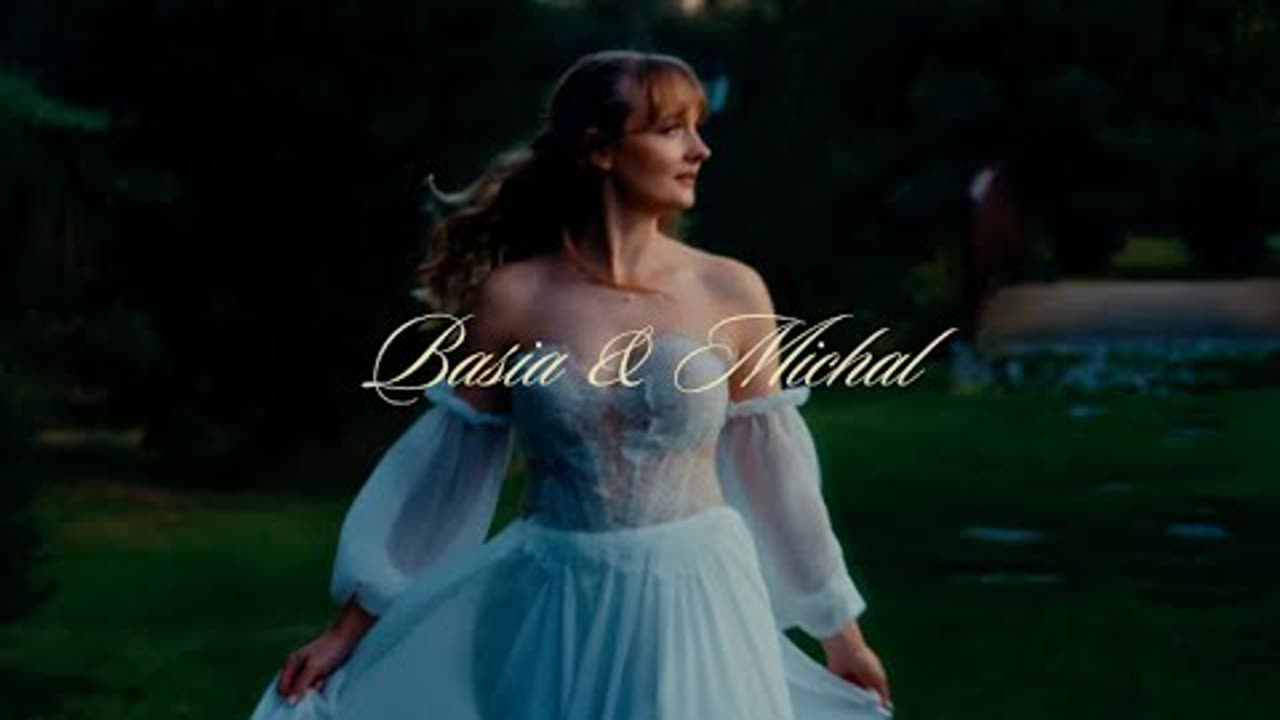
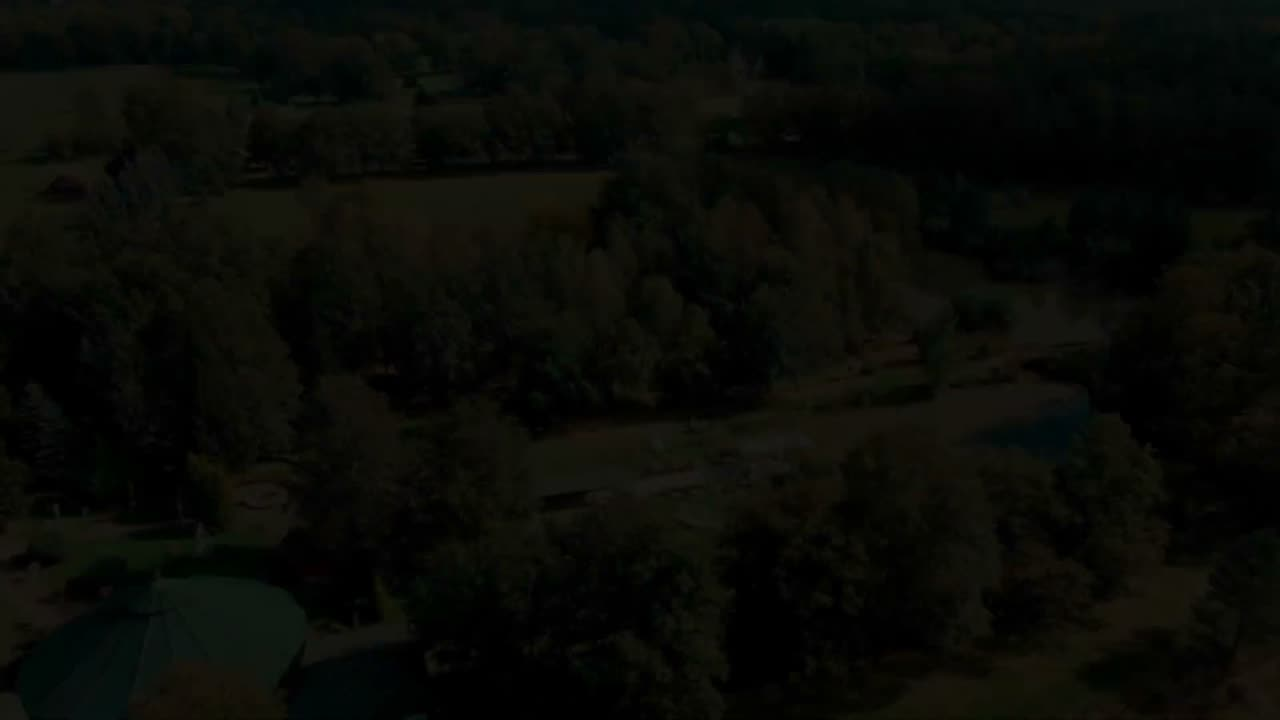
Back-to-top button on every page, and both remaining films moved to Drive
- a back-to-top button fades in once past halfway down the page and hides again
  at the top; it stays hidden on pages too short to need it, respects reduced
  motion, and is labelled in both languages
- Monika & Julien and Basia & Michał now play from Drive like the other four,
  with posters refreshed from those files

diff --git a/docs/assets/css/site.css b/docs/assets/css/site.css
@@ -350,3 +350,28 @@ h1,h2,h3,h4{font-family:var(--display);font-weight:400;margin:0;text-wrap:balanc
 /* ---------- gallery: steadier columns with 200+ frames ---------- */
 .gallery img{background:var(--ink-3)}
 @media (min-width:1400px){.gallery{columns:4}}
+
+/* ---------- back to top ---------- */
+.to-top{
+  position:fixed;z-index:70;
+  right:clamp(16px,2.5vw,34px);
+  bottom:calc(clamp(16px,2.5vw,34px) + env(safe-area-inset-bottom,0px));
+  width:48px;height:48px;border-radius:50%;
+  display:grid;place-items:center;cursor:pointer;
+  border:1px solid var(--line);
+  background:rgba(20,16,15,.72);color:var(--bone);
+  backdrop-filter:blur(8px);-webkit-backdrop-filter:blur(8px);
+  box-shadow:0 10px 30px rgba(8,9,9,.4);
+  opacity:0;visibility:hidden;transform:translateY(10px) scale(.94);
+  transition:opacity .35s ease,transform .45s cubic-bezier(.22,1,.36,1),
+             visibility 0s linear .35s,border-color .3s ease,background .3s ease;
+}
+.to-top.is-shown{
+  opacity:1;visibility:visible;transform:none;
+  transition:opacity .35s ease,transform .45s cubic-bezier(.22,1,.36,1),
+             visibility 0s linear 0s,border-color .3s ease,background .3s ease;
+}
+.to-top:hover,.to-top:focus-visible{background:rgba(196,136,60,.3);border-color:rgba(196,136,60,.6)}
+.to-top svg{width:15px;height:15px;fill:none;stroke:currentColor;stroke-width:1.6;stroke-linecap:round;stroke-linejoin:round}
+@media (max-width:600px){.to-top{width:44px;height:44px}}
+@media print{.to-top{display:none}}

diff --git a/docs/assets/js/site.js b/docs/assets/js/site.js
@@ -258,6 +258,30 @@
     targets.forEach(function (t) { t.classList.add('is-in'); });
   }
 
+  /* ---- back to top: appears once past halfway ---- */
+  var toTop = doc.getElementById('to-top');
+  if (toTop) {
+    var ticking = false;
+    function checkTop() {
+      ticking = false;
+      var doch = doc.documentElement;
+      var scrollable = (doc.body.scrollHeight || 0) - window.innerHeight;
+      // Nothing to go back to on a page that barely scrolls.
+      var past = scrollable > 400 && (window.scrollY || doch.scrollTop) > scrollable * 0.5;
+      toTop.classList.toggle('is-shown', past);
+    }
+    window.addEventListener('scroll', function () {
+      if (!ticking) { ticking = true; window.requestAnimationFrame(checkTop); }
+    }, { passive: true });
+    window.addEventListener('resize', checkTop, { passive: true });
+    toTop.addEventListener('click', function () {
+      window.scrollTo({ top: 0, behavior: reduce ? 'auto' : 'smooth' });
+      var skip = doc.querySelector('.skip');
+      if (skip) skip.focus({ preventScroll: true });
+    });
+    checkTop();
+  }
+
   /* ---- copy buttons ---- */
   doc.querySelectorAll('[data-copy]').forEach(function (btn) {
     btn.addEventListener('click', function () {

diff --git a/docs/assets/js/films.js b/docs/assets/js/films.js
@@ -15,7 +15,7 @@
 --------------------------------------------------------------------------- */
 window.HF_FILMS = [
   {
-    type: "youtube", id: "XPw7D7KUssw", poster: "mj",
+    type: "drive", id: "15ByiG5HNg84QvNmWlqPY7Ey9WxRpa1jT", poster: "mj",
     couple: "Monika & Julien",
     titleEn: "A Celebration of Love",
     titlePl: "A Celebration of Love",
@@ -23,7 +23,7 @@ window.HF_FILMS = [
     textPl: "W sercu Polski, tam gdzie się poznali, ich przygoda zaczęła się w piękny październikowy dzień — i trwa do dziś.",
   },
   {
-    type: "youtube", id: "F5dF0lmNNYc", poster: "bm",
+    type: "drive", id: "1y28-v6MfjWAfq15hzNoQEJQtnljvDG7j", poster: "bm",
     couple: "Basia & Michał",
     titleEn: "Moments of Magic",
     titlePl: "Moments of Magic",

diff --git a/docs/pl/about.html b/docs/pl/about.html
@@ -141,6 +141,9 @@
     </div>
   </div>
 </footer>
+<button class="to-top" type="button" id="to-top" aria-label="Wróć na górę">
+  <svg viewBox="0 0 24 24" aria-hidden="true"><path d="M12 19V5M5 12l7-7 7 7"/></svg>
+</button>
 <script src="../assets/js/films.js"></script>
 <script src="../assets/js/site.js"></script>
 <script>document.getElementById('yr').textContent=new Date().getFullYear();</script>

diff --git a/docs/pl/album-agata-igor.html b/docs/pl/album-agata-igor.html
@@ -150,6 +150,9 @@
     </div>
   </div>
 </footer>
+<button class="to-top" type="button" id="to-top" aria-label="Wróć na górę">
+  <svg viewBox="0 0 24 24" aria-hidden="true"><path d="M12 19V5M5 12l7-7 7 7"/></svg>
+</button>
 <script src="../assets/js/films.js"></script>
 <script src="../assets/js/site.js"></script>
 <script>document.getElementById('yr').textContent=new Date().getFullYear();</script>

diff --git a/docs/pl/album-dominika-artur.html b/docs/pl/album-dominika-artur.html
@@ -184,6 +184,9 @@
     </div>
   </div>
 </footer>
+<button class="to-top" type="button" id="to-top" aria-label="Wróć na górę">
+  <svg viewBox="0 0 24 24" aria-hidden="true"><path d="M12 19V5M5 12l7-7 7 7"/></svg>
+</button>
 <script src="../assets/js/films.js"></script>
 <script src="../assets/js/site.js"></script>
 <script>document.getElementById('yr').textContent=new Date().getFullYear();</script>

diff --git a/docs/pl/album-julia-artsiom.html b/docs/pl/album-julia-artsiom.html
@@ -211,6 +211,9 @@
     </div>
   </div>
 </footer>
+<button class="to-top" type="button" id="to-top" aria-label="Wróć na górę">
+  <svg viewBox="0 0 24 24" aria-hidden="true"><path d="M12 19V5M5 12l7-7 7 7"/></svg>
+</button>
 <script src="../assets/js/films.js"></script>
 <script src="../assets/js/site.js"></script>
 <script>document.getElementById('yr').textContent=new Date().getFullYear();</script>

diff --git a/docs/pl/album-julia-dominik.html b/docs/pl/album-julia-dominik.html
@@ -168,6 +168,9 @@
     </div>
   </div>
 </footer>
+<button class="to-top" type="button" id="to-top" aria-label="Wróć na górę">
+  <svg viewBox="0 0 24 24" aria-hidden="true"><path d="M12 19V5M5 12l7-7 7 7"/></svg>
+</button>
 <script src="../assets/js/films.js"></script>
 <script src="../assets/js/site.js"></script>
 <script>document.getElementById('yr').textContent=new Date().getFullYear();</script>

diff --git a/docs/pl/album-nadia-miguel.html b/docs/pl/album-nadia-miguel.html
@@ -185,6 +185,9 @@
     </div>
   </div>
 </footer>
+<button class="to-top" type="button" id="to-top" aria-label="Wróć na górę">
+  <svg viewBox="0 0 24 24" aria-hidden="true"><path d="M12 19V5M5 12l7-7 7 7"/></svg>
+</button>
 <script src="../assets/js/films.js"></script>
 <script src="../assets/js/site.js"></script>
 <script>document.getElementById('yr').textContent=new Date().getFullYear();</script>

diff --git a/docs/pl/album-nastyja-anton.html b/docs/pl/album-nastyja-anton.html
@@ -152,6 +152,9 @@
     </div>
   </div>
 </footer>
+<button class="to-top" type="button" id="to-top" aria-label="Wróć na górę">
+  <svg viewBox="0 0 24 24" aria-hidden="true"><path d="M12 19V5M5 12l7-7 7 7"/></svg>
+</button>
 <script src="../assets/js/films.js"></script>
 <script src="../assets/js/site.js"></script>
 <script>document.getElementById('yr').textContent=new Date().getFullYear();</script>

diff --git a/docs/pl/contact.html b/docs/pl/contact.html
@@ -182,6 +182,9 @@
     </div>
   </div>
 </footer>
+<button class="to-top" type="button" id="to-top" aria-label="Wróć na górę">
+  <svg viewBox="0 0 24 24" aria-hidden="true"><path d="M12 19V5M5 12l7-7 7 7"/></svg>
+</button>
 <script src="../assets/js/films.js"></script>
 <script src="../assets/js/site.js"></script>
 <script>document.getElementById('yr').textContent=new Date().getFullYear();</script>

diff --git a/docs/pl/index.html b/docs/pl/index.html
@@ -182,6 +182,9 @@
     </div>
   </div>
 </footer>
+<button class="to-top" type="button" id="to-top" aria-label="Wróć na górę">
+  <svg viewBox="0 0 24 24" aria-hidden="true"><path d="M12 19V5M5 12l7-7 7 7"/></svg>
+</button>
 <script src="../assets/js/films.js"></script>
 <script src="../assets/js/site.js"></script>
 <script>document.getElementById('yr').textContent=new Date().getFullYear();</script>
